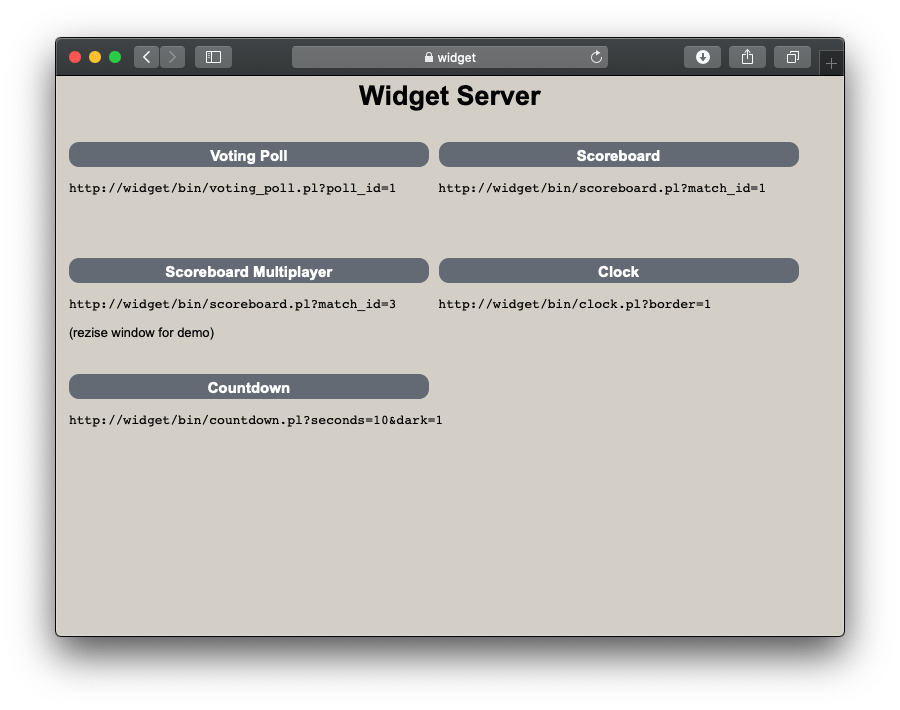
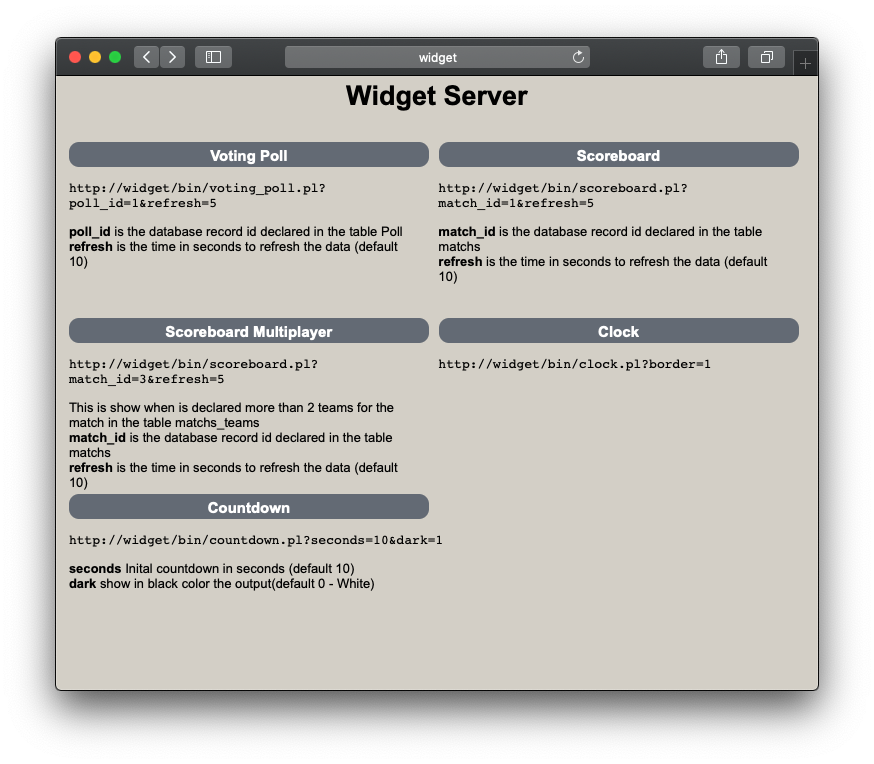
refresh time on widgets

Changed region(s): [[0.0618, 0.031, 0.9577, 0.8986], [0.0618, 0.8676, 0.9268, 0.9296]]

diff --git a/html/index.html b/html/index.html
@@ -12,19 +12,28 @@
               <div id="SquareConteiner">
                   <div id="SquareData">
                       <div id="RoundCornerTitle">Voting Poll</div>
-                      <A HREF="/bin/voting_poll.pl?poll_id=1">
-                      <pre>http://widget/bin/voting_poll.pl?poll_id=1</pre></A>
+                      <A HREF="/bin/voting_poll.pl?poll_id=1&refresh=5">
+                      <pre>http://widget/bin/voting_poll.pl?
+poll_id=1&refresh=5</pre></A>
+                      <b>poll_id</b> is the database record id declared in the table Poll<br/>
+                      <b>refresh</b> is the time in seconds to refresh the data (default 10)
                   </div>
                   <div id="SquareData">
                       <div id="RoundCornerTitle">Scoreboard</div>
-                      <A HREF="/bin/scoreboard.pl?match_id=1">
-                      <pre>http://widget/bin/scoreboard.pl?match_id=1</pre></A>
+                      <A HREF="/bin/scoreboard.pl?match_id=1&refresh=5">
+                      <pre>http://widget/bin/scoreboard.pl?
+match_id=1&refresh=5</pre></A>
+                      <b>match_id</b> is the database record id declared in the table matchs<br/>
+                      <b>refresh</b> is the time in seconds to refresh the data (default 10)
                   </div>  
                   <div id="SquareData">
                       <div id="RoundCornerTitle">Scoreboard Multiplayer</div>
-                      <A HREF="/bin/scoreboard.pl?match_id=3">
-                      <pre>http://widget/bin/scoreboard.pl?match_id=3</pre></A>
-                      (rezise window for demo)
+                      <A HREF="/bin/scoreboard.pl?match_id=3&refresh=5">
+                      <pre>http://widget/bin/scoreboard.pl?
+match_id=3&refresh=5</pre></A>
+                      This is show when is declared more than 2 teams for the match in the table matchs_teams<br/>
+                      <b>match_id</b> is the database record id declared in the table matchs<br/>
+                      <b>refresh</b> is the time in seconds to refresh the data (default 10)
                   </div>
                   <div id="SquareData">
                       <div id="RoundCornerTitle">Clock</div>
@@ -35,6 +44,8 @@
                       <div id="RoundCornerTitle">Countdown</div>
                       <A HREF="/bin/countdown.pl?seconds=10&dark=1">
                       <pre>http://widget/bin/countdown.pl?seconds=10&dark=1</pre></A>
+                      <b>seconds</b> Inital countdown in seconds (default 10)<br/>
+                      <b>dark</b> show in black color the output(default 0 - White)
                   </div>
               </div>
           </TD></TR>

diff --git a/html/css/widget-server.css b/html/css/widget-server.css
@@ -224,7 +224,7 @@ textarea.req { background-color: #F9ECD5;
                    padding: 1px;
                    margin: 3px;
                    width: 350px;
-                   height: 100px;
+                   height: 160px;
                    padding: 5px;
                    display: inline-block;}
 #Submit { border-radius: 15px ;
